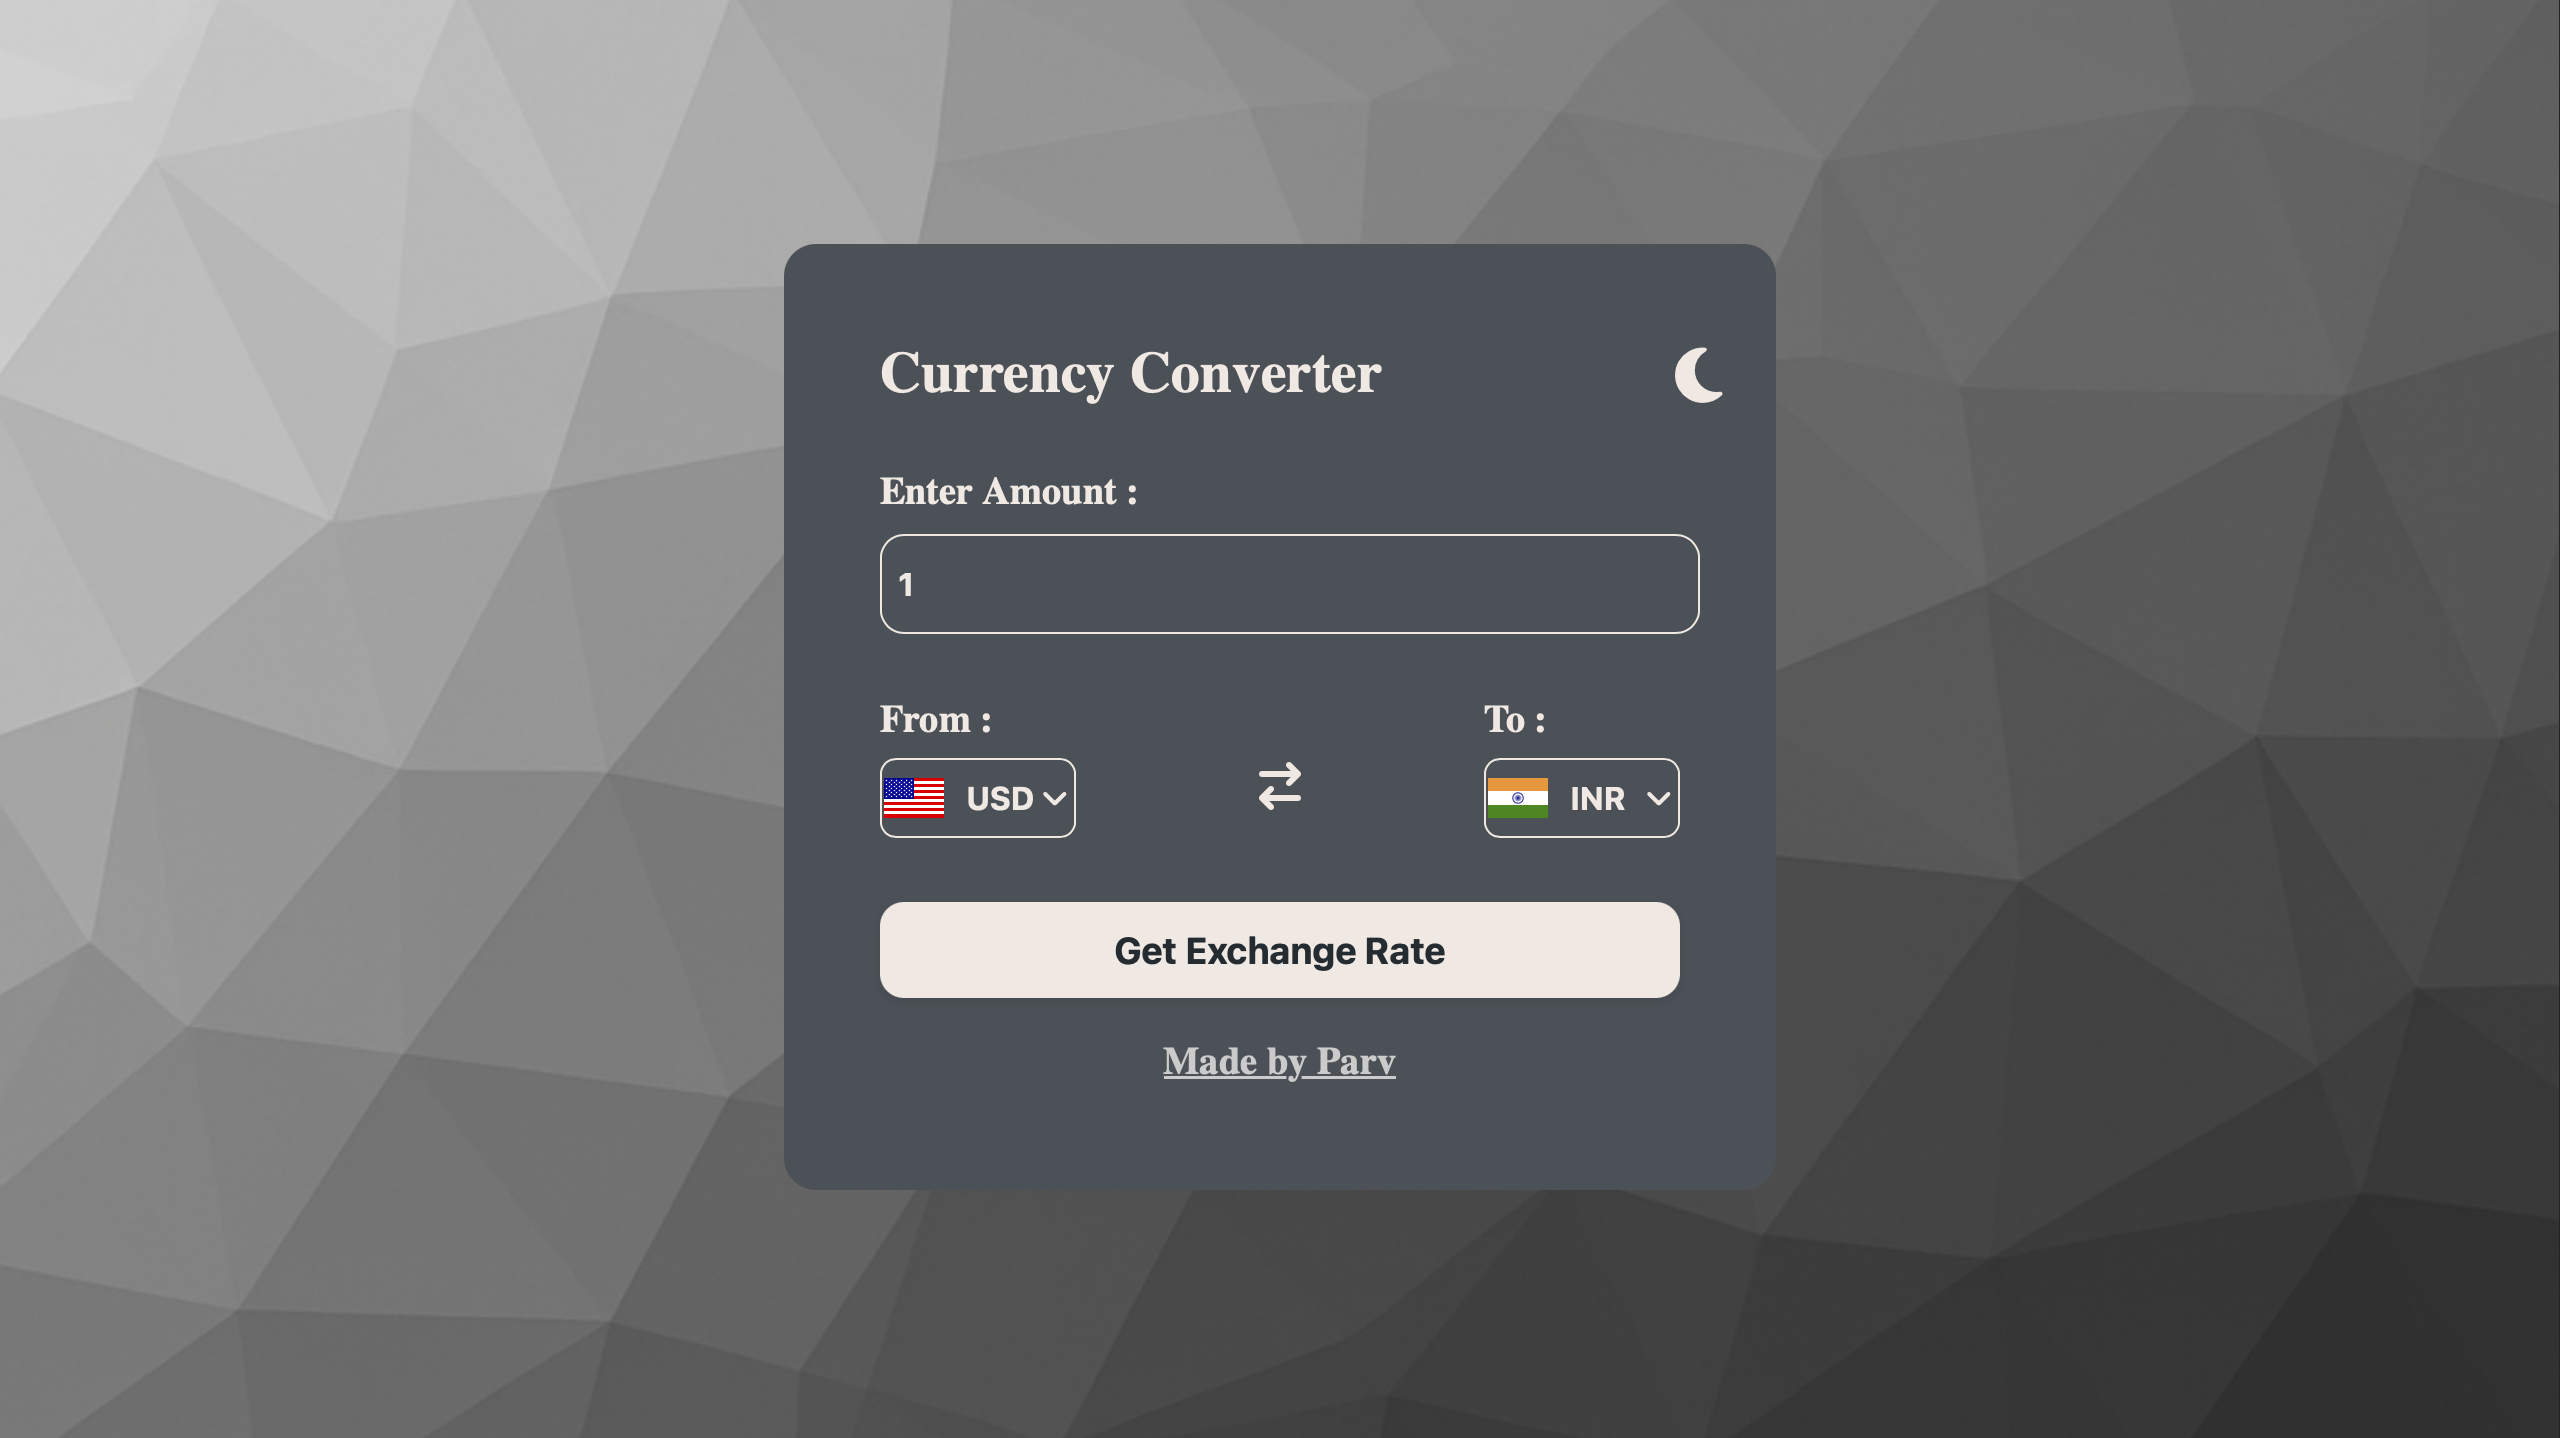
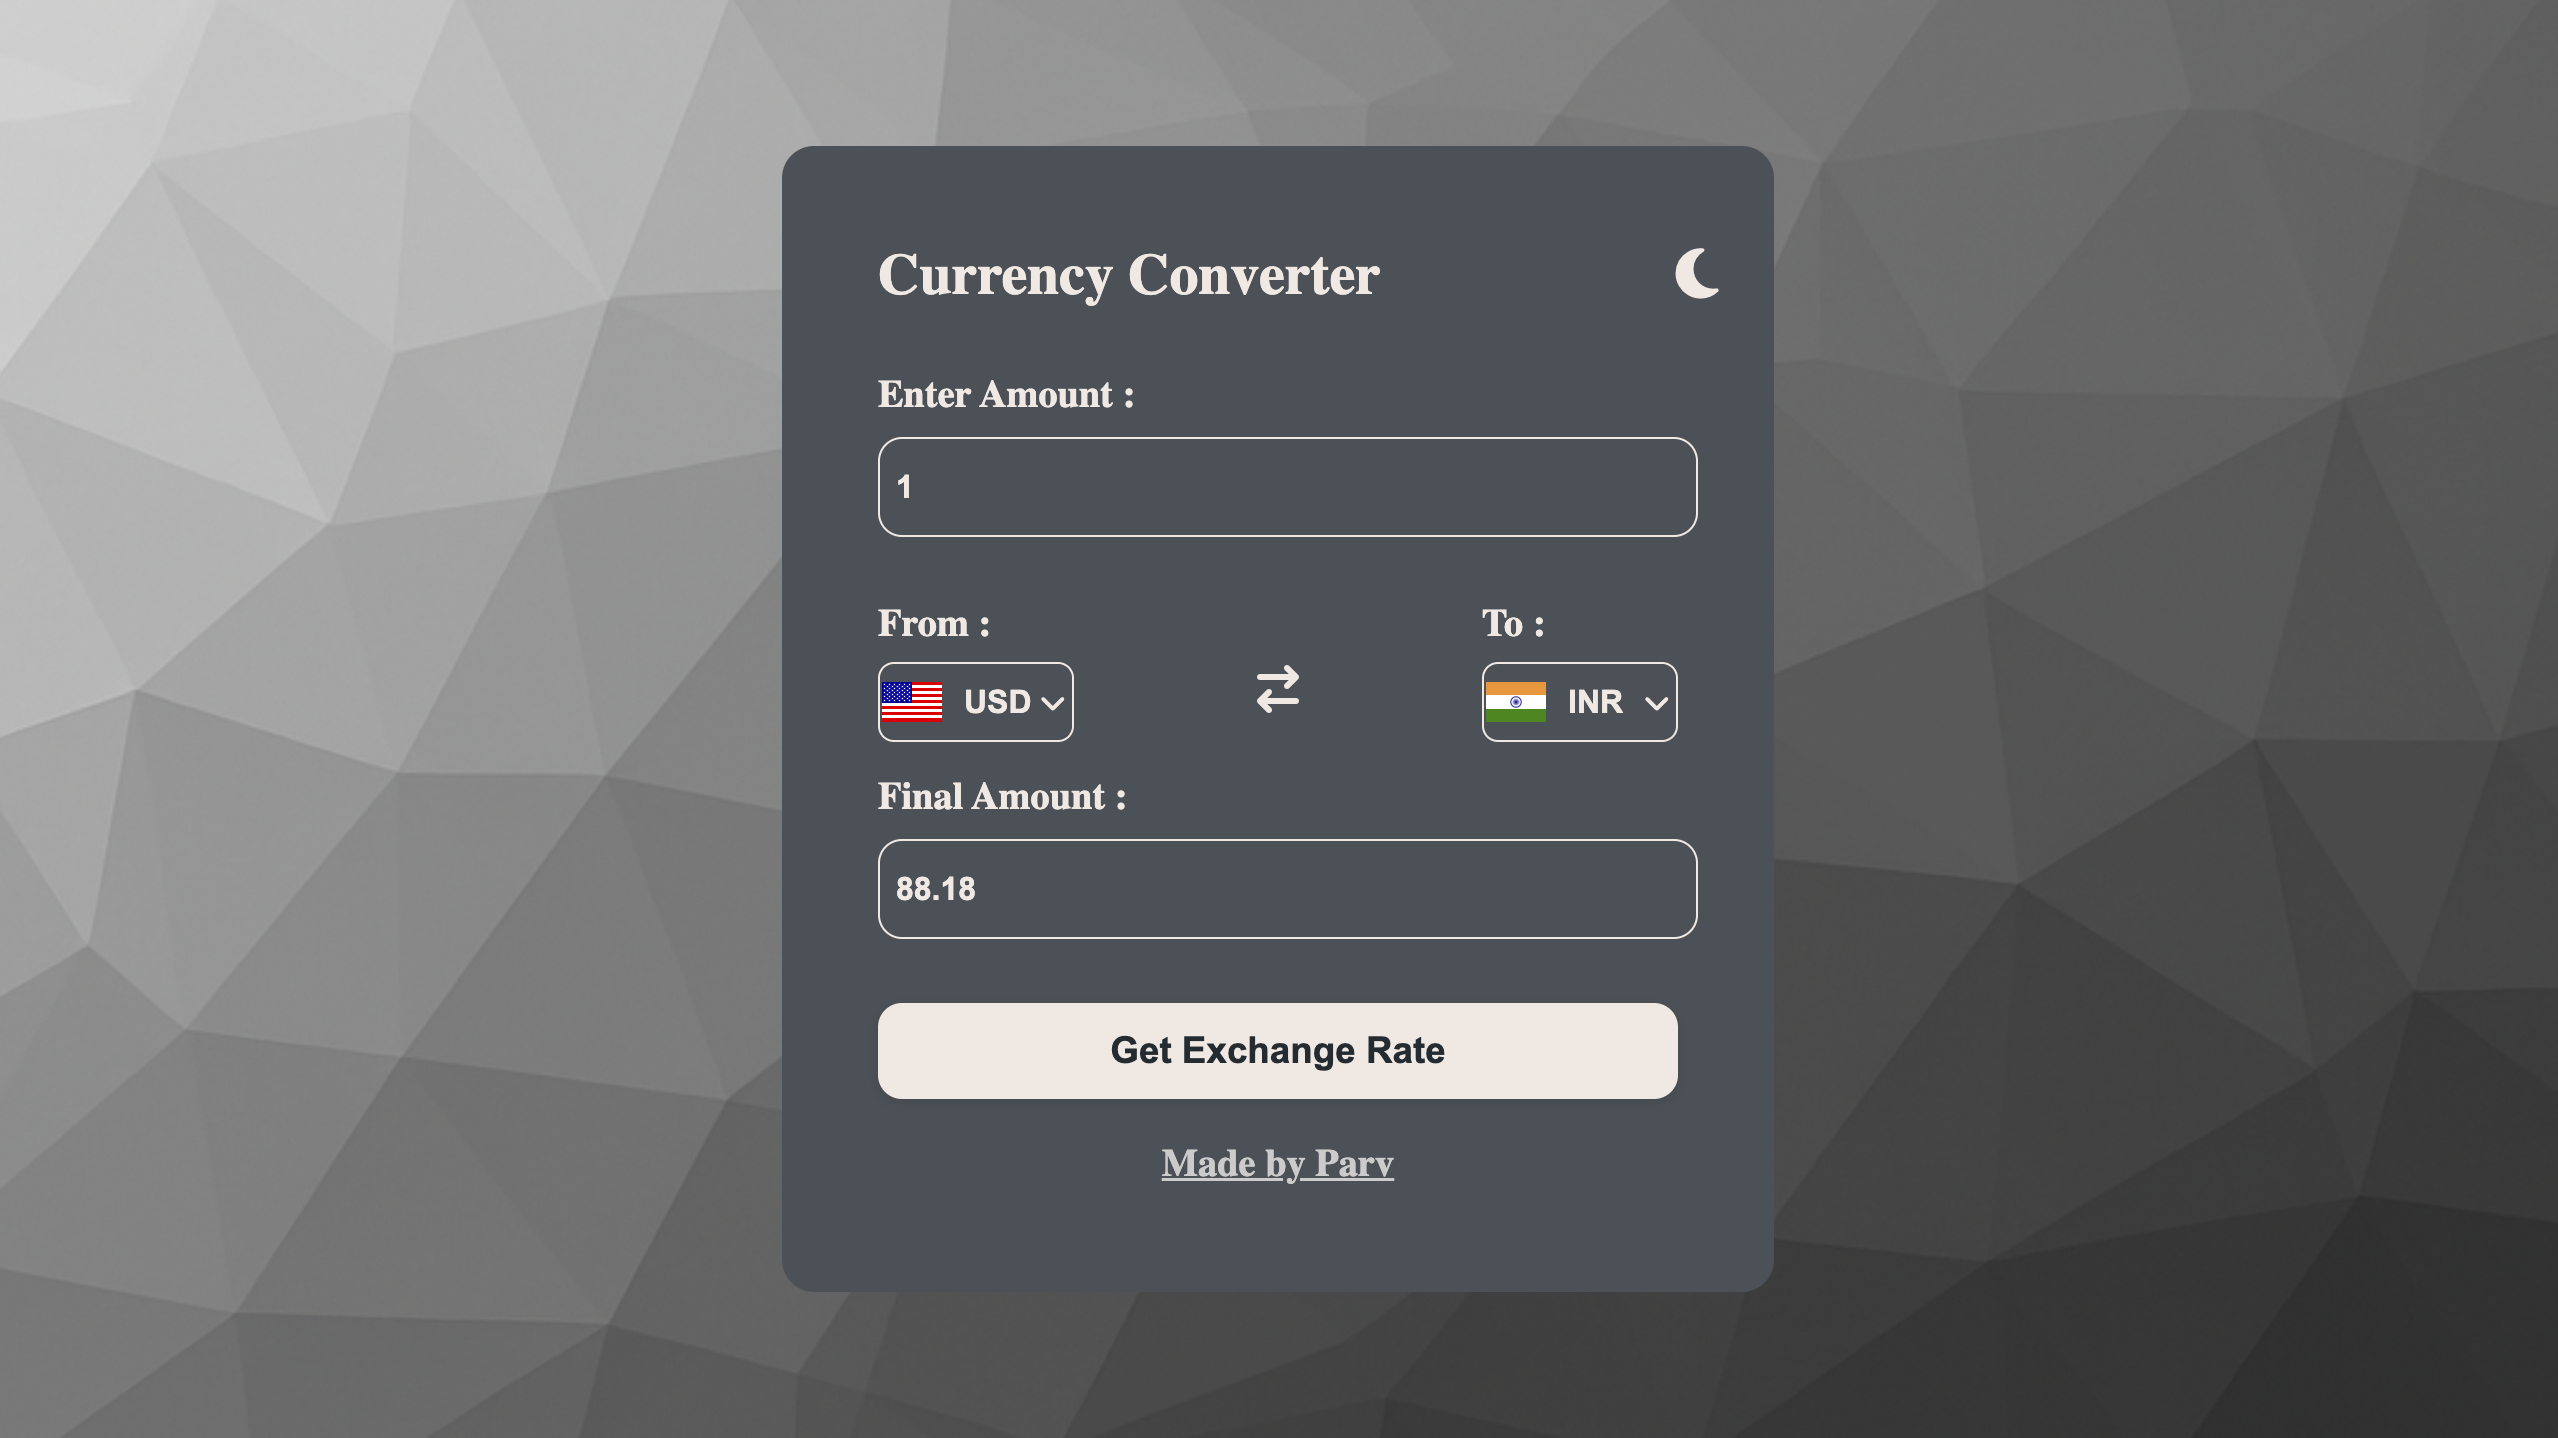
Change UI

diff --git a/app.js b/app.js
@@ -4,6 +4,8 @@ const BASE_URL = "https://cdn.jsdelivr.net/npm/@fawazahmed0/currency-api@latest/
 // Select necessary DOM elements
 const body = document.body;
 const form = document.querySelector("form");
+const amountInput = document.querySelector(".input");
+const amountOutput = document.querySelector(".output");
 const dropdowns = document.querySelectorAll(".dropdown select");
 const submitButton = document.querySelector(".submit-button");
 const fromCurr = document.querySelector(".from select");
@@ -31,13 +33,12 @@ for (let select of dropdowns) {
   });
 }
 
-// Form Submit Handler
-form.addEventListener("submit", function (e) {
+// Form Submit Handler 
+form.addEventListener("submit", async (e) => {
   e.preventDefault();
-  submitButton.disabled = true; 
-  updateExchangeRate().finally(() => {
-    submitButton.disabled = false;
-  });
+  submitButton.disabled = true;
+  await updateExchangeRate();
+  submitButton.disabled = false;
 });
 
 // Function: Update Country Flag
@@ -61,9 +62,8 @@ themeButton.addEventListener("click", () => {
 exchangeButton.addEventListener("click", (evt) => {
   evt.preventDefault();
 
-  let temp = fromCurr.value;
-  fromCurr.value = toCurr.value;
-  toCurr.value = temp;
+  [fromCurr.value, toCurr.value] = [toCurr.value, fromCurr.value];
+  [amountInput.value, amountOutput.value] = [amountOutput.value, amountInput.value];
 
   updateFlag(fromCurr);
   updateFlag(toCurr);
@@ -71,23 +71,17 @@ exchangeButton.addEventListener("click", (evt) => {
   submitButton.focus();
 });
 
-// Submit Button Click Handler
-
-submitButton.addEventListener("click", async (evt) => {
-  evt.preventDefault();
-  updateExchangeRate(); 
-});
-
 // Function: Fetch and Display Exchange Rate
 
 const updateExchangeRate = async () => {
-  const amountInput = document.querySelector(".input");
-  const output = document.querySelector(".output");
-
   const amountValue = Number(amountInput.value);
 
-  if (isNaN(amountValue) || amountValue < 1) {
-    output.value = 0;
+  if (isNaN(amountValue) || amountValue < 0) {
+    amountOutput.value = "Invalid amount!";
+    return;
+  }
+  if (amountValue === 0) {
+    amountOutput.value = 0;
     return;
   }
 
@@ -97,13 +91,11 @@ const updateExchangeRate = async () => {
     const response = await fetch(URL);
     const data = await response.json();
 
-    const rate =
-    data[fromCurr.value.toLowerCase()][toCurr.value.toLowerCase()];
+    const rate = data[fromCurr.value.toLowerCase()][toCurr.value.toLowerCase()];
     const finalAmount = (rate * amountValue).toFixed(2);
 
-    // Update readonly input
-    output.value = finalAmount;
+    amountOutput.value = finalAmount;
   } catch (error) {
-    output.value = 0;
+    amountOutput.value = "Error fetching rate";
   }
 };

diff --git a/index.html b/index.html
@@ -41,7 +41,7 @@
             <!-- Input field for entering amount -->
             <div class="amount">
                 <p>Enter Amount :</p>
-                <input class="input" type="number" value="0" min="0" step="any" placeholder="Enter amount to convert"/>
+                <input class="input" value="0" min="0" step="any" placeholder="Enter amount to convert"/>
             </div>
 
             <!-- Currency selection section -->
@@ -74,7 +74,7 @@
             <!-- Output field for showing amount -->
             <div class="amount">
                 <p>Final Amount :</p>
-                <input class="output" type="number" value="0" step="any" readonly/>
+                <input class="output" value="0" step="any" readonly/>
             </div>
 
             <!-- Submit button to get exchange rate -->
